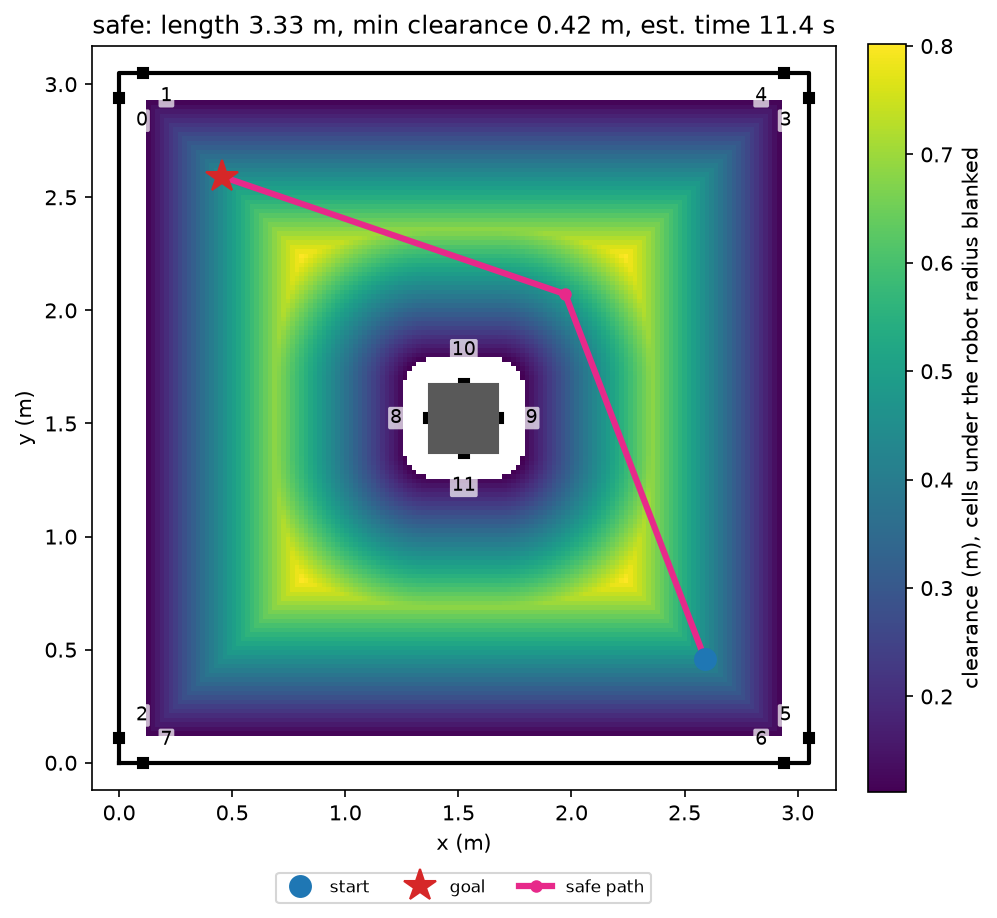
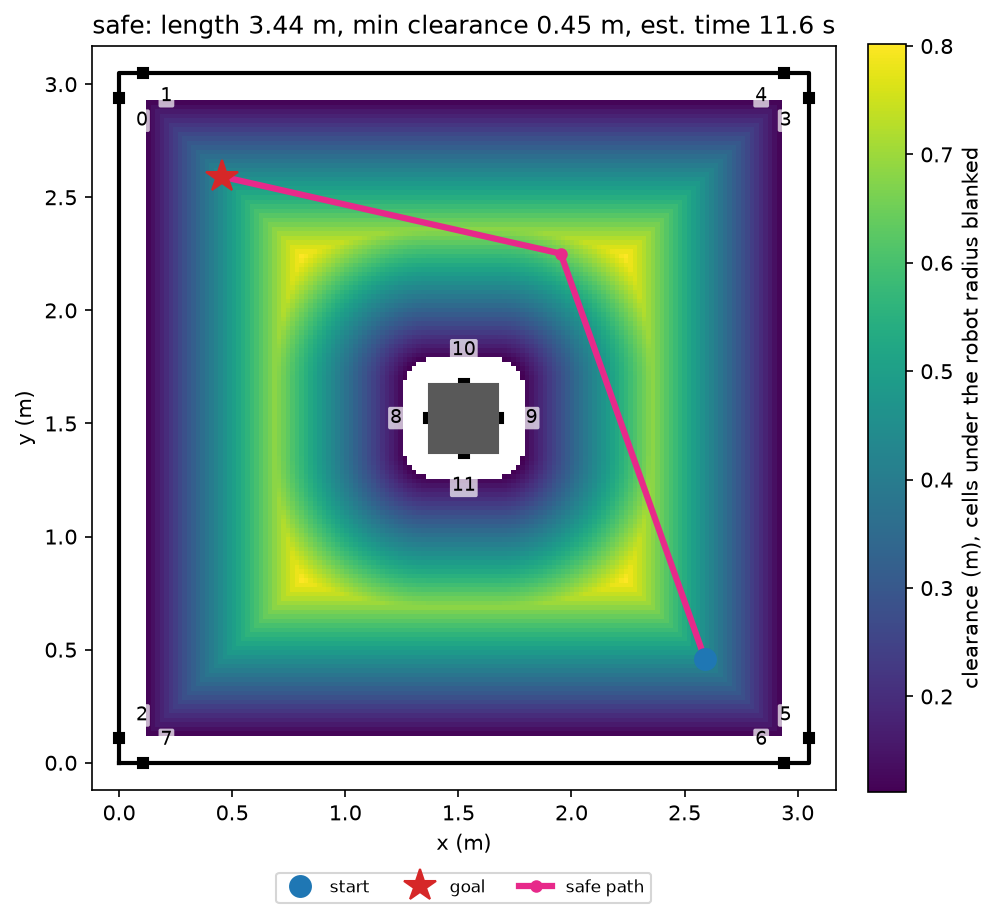
hw4: safe path follows the high-clearance ridge
The safe and fast runs looked alike: the safe path could lose 10% of its
clearance when simplified. Keep 98% of the raw path's minimum clearance
(KEEP) and weight clearance more (WEIGHT 2). The safe path now bends at
(1.95, 2.25) m with 0.45 m minimum clearance, about twice the fast path's
0.22 m, and is 0.29 m longer.

diff --git a/robot_control/test/test_hw4_planning.py b/robot_control/test/test_hw4_planning.py
@@ -94,9 +94,19 @@ def test_safest_stays_clear_of_everything(world):
 def test_safest_is_safer_but_longer_than_shortest(world):
     fast = plan_shortest(world, radius=ROBOT_RADIUS + 0.05)
     safe = plan_safest(world, radius=ROBOT_RADIUS)
-    assert min_clearance(world, safe) > 0.40
+    assert min_clearance(world, safe) >= 0.45
     assert min_clearance(world, safe) > min_clearance(world, fast) + 0.1
     assert length(safe) > length(fast)
+
+
+def test_safest_keeps_more_clearance_on_average(world):
+    def mean_clearance(path):
+        values = [clearance(world, p) for p in points_along(path)]
+        return sum(values) / len(values)
+
+    safe = plan_safest(world, radius=ROBOT_RADIUS)
+    fast = plan_shortest(world, ROBOT_RADIUS + 0.05)
+    assert mean_clearance(safe) > mean_clearance(fast) + 0.08
 
 
 def test_safest_has_few_waypoints(world):

diff --git a/robot_control/hw4_planning/safest.py b/robot_control/hw4_planning/safest.py
@@ -4,7 +4,8 @@ import math
 from hw4_planning.world import clearance, segment_free
 
 TIE_PENALTY = 1e-6
-WEIGHT = 0.5
+WEIGHT = 2.0
+KEEP = 0.98  # simplified path keeps this share of the raw path's min clearance
 STEPS = [(dx, dy) for dx in (-1, 0, 1) for dy in (-1, 0, 1) if dx or dy]
 
 
@@ -65,7 +66,7 @@ def plan_safest(world, radius, resolution=0.02, weight=WEIGHT, prefer='right'):
     raw = [(c[0] * resolution, c[1] * resolution) for c in cells[::-1]]
     raw[0], raw[-1] = world.start, world.goal
 
-    floor = max(radius, 0.9 * min(clearance(world, p) for p in raw))
+    floor = max(radius, KEEP * min(clearance(world, p) for p in raw))
     path, i = [raw[0]], 0
     while i < len(raw) - 1:
         j = next((j for j in range(len(raw) - 1, i, -1)
